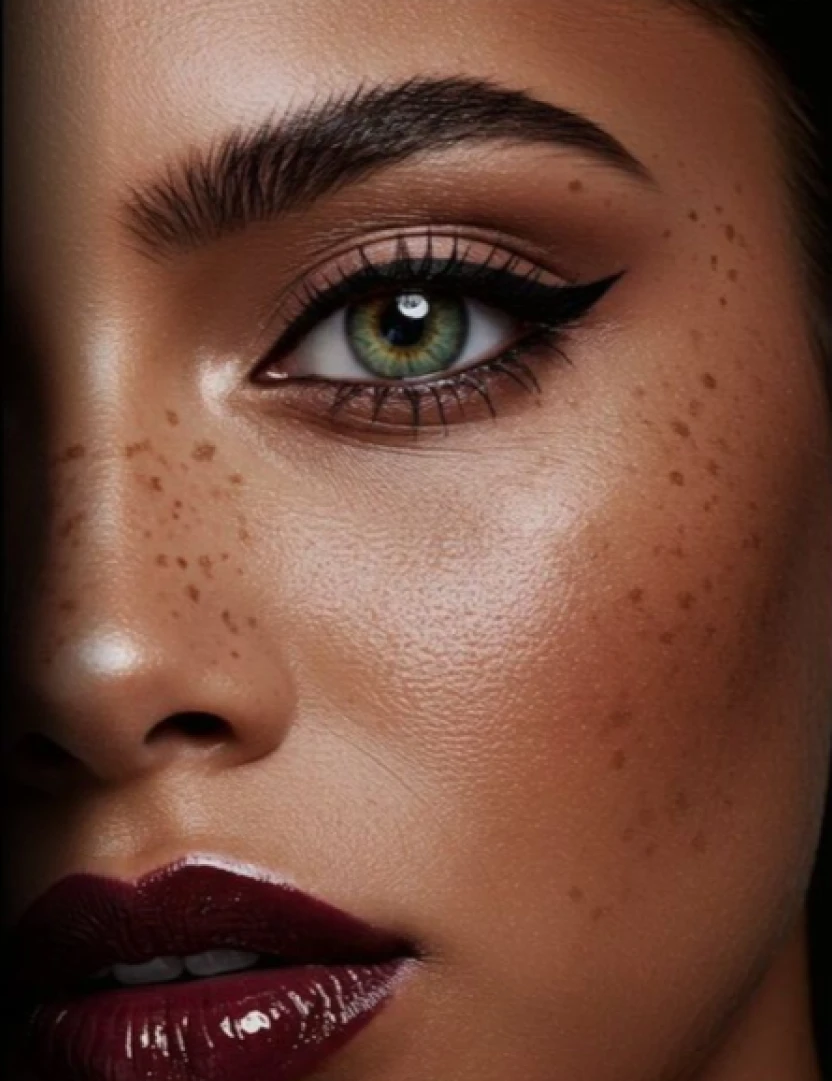
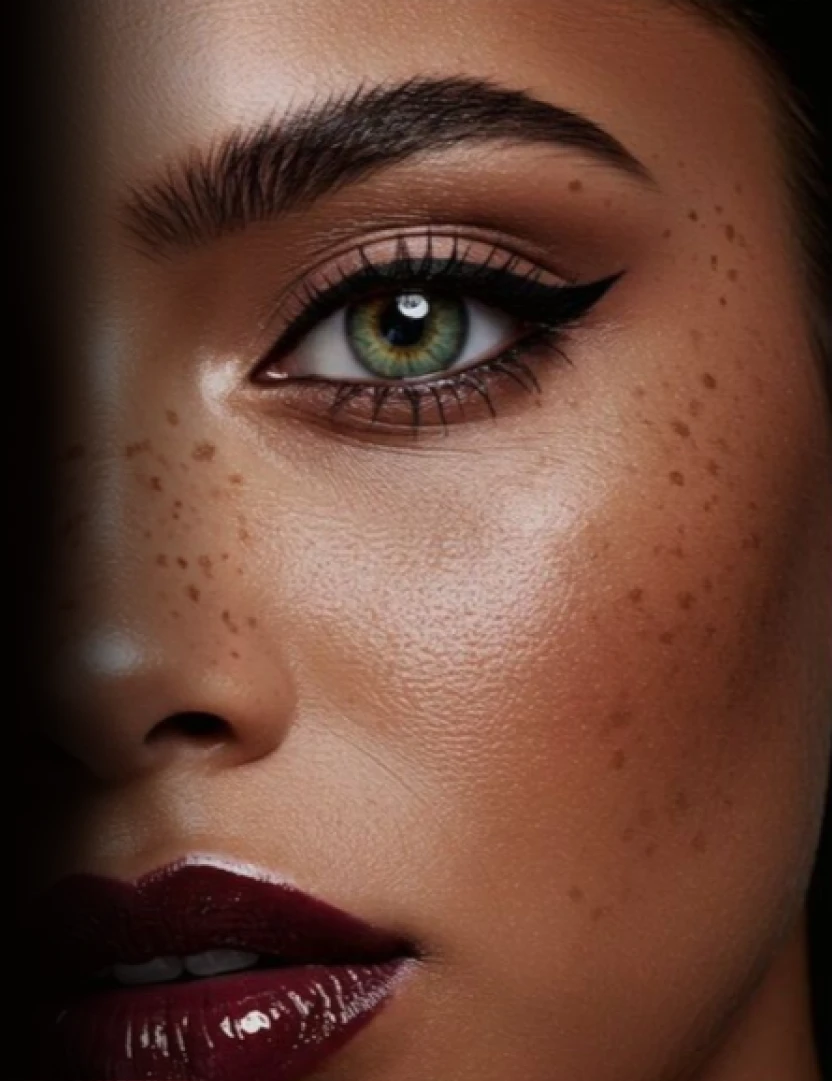
feat: add feedbacks

Changed region(s): [[0.0, 0.0, 0.25, 0.8242], [0.0938, 0.9158, 0.2188, 1.0]]

diff --git a/src/App.module.css b/src/App.module.css
@@ -359,6 +359,54 @@
     display: flex;
     align-items: center;
     padding-left: var(--default-padding);
+    z-index: 1;
+}
+
+.feedbacks {
+    height: 50vh;
+    min-height: 50vh;
+    background-color: var(--primary-color);
+    display: flex;
+    align-items: center;
+    padding: var(--default-padding);
+    gap: 2rem;
+}
+
+.feedbackCard {
+    flex: 1;
+    min-height: 100%;
+    background-color: var(--primary-text-color);
+    padding: 1rem 1rem 1rem 5rem;
+    position: relative;
+    display: flex;
+    flex-direction: column;
+    gap: 1rem;
+}
+
+.feedbackCard * {
+    color: var(--white-color);
+}
+
+.feedbackCard h3 {
+    font-size: 2rem;
+}
+
+.quotationFeedback {
+    font-family: "Cormorant Garamond", serif;
+    font-size: 5rem;
+    position: absolute;
+    left: 1rem;
+    top: 0rem;
+}
+
+.feedbackStars {
+    position: absolute;
+    top: 1rem;
+    right: 1rem;
+}
+
+.feedbackLink {
+    margin-top: auto;
 }
 
 .form {
@@ -611,6 +659,17 @@
     .serviceList {
         grid-template-columns: 1fr 1fr;
     }
+
+    .feedbacks {
+        min-height: 100vh;
+        flex-direction: column;
+    }
+
+    .feedbackCard {
+        min-height: auto;
+        width: 100%;
+    }
+
 
     .contactSection1 {
         padding-left: 2rem;

diff --git a/src/App.tsx b/src/App.tsx
@@ -3,7 +3,7 @@ import { useState } from "react";
 
 import styles from "./App.module.css";
 
-import { FaHeart, FaChevronDown } from "react-icons/fa";
+import { FaHeart, FaChevronDown, FaStar, FaArrowRight } from "react-icons/fa";
 
 import whatsappWhite from "./assets/icons/whatsappWhite.svg";
 import whatsappBlack from "./assets/icons/whatsappBlack.svg";
@@ -177,6 +177,18 @@ function App() {
             {showAll ? "Ver Menos" : "Ver Todos"}
           </button>
         )}
+      </article>
+
+      <article className={styles.feedbacks}>
+        {data.feedbacks.map((feedback) => (
+          <div className={styles.feedbackCard}>
+            <span className={styles.quotationFeedback}>"</span>
+            <h3>{feedback.name}</h3>
+            <span className={styles.feedbackStars}>{feedback.stars} <FaStar/></span>
+            <p>{feedback.comment}</p>
+            <a className={styles.feedbackLink} href={feedback.link}>Ver Feedback <FaArrowRight/></a>
+          </div>
+        ))}
       </article>
 
       <article className={styles.contact} id="contato">

diff --git a/src/data/data.ts b/src/data/data.ts
@@ -113,5 +113,26 @@ export const data = {
             description: "Modelagem das sobrancelhas de acordo com o formato do seu rosto."
         },
 
+    ],
+
+    feedbacks: [
+        {
+            name: "Elenice Santos",
+            stars: "5",
+            comment: "A limpeza de pele foi incrível! 😃 Estou muito satisfeita!!!SIMPLESMENTE EU AMEIIIII!!😍😍🥰🥰❤❤",
+            link: "https://maps.app.goo.gl/1zqyj4TTcPwTVz3o8"
+        },
+        {
+            name: "Conceição Silva",
+            stars: "5",
+            comment: "Ótima localização, atendimento top, maravilhoso,super índico de olhos fechados.",
+            link: "https://maps.app.goo.gl/M2U3sifGG2KZBAhh9"
+        },
+        {
+            name: "Nill Silva",
+            stars: "5",
+            comment: "Experiência ótima: ambiente climatizado, fácil acessibilidade, excelente atendimento, perfeito! Recomendo muiiiiitoooooooo!",
+            link: "https://maps.app.goo.gl/yukmpMxfEY6dyS9J9"
+        }
     ]
 }
